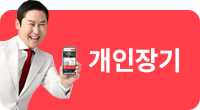
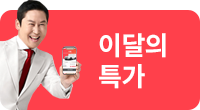
mo 신차장 메인 배너 변경 및 롤링 추가

Changed region(s): [[0.42, 0.3, 0.9, 0.8182], [0.3, 0.4364, 0.39, 0.6818]]

diff --git a/wwwroot/mo/html-mo/html/common/main_longTerm.html b/wwwroot/mo/html-mo/html/common/main_longTerm.html
@@ -90,21 +90,21 @@
 						<li>
 							<a href="#">
 								<div class="img">
-									<img src="../../../resources-mo/images/@temp-longTerm-link01.png" alt="더미이미지"/>
+									<img src="../../../resources-mo/images/@temp-longTerm-link01.png" alt="이달의 특가"/>
 								</div>
 							</a>
 						</li>
 						<li>
 							<a href="#">
 								<div class="img">
-									<img src="../../../resources-mo/images/@temp-longTerm-link02.png" alt="더미이미지"/>
+									<img src="../../../resources-mo/images/@temp-longTerm-link02.png" alt="개인장기"/>
 								</div>
 							</a>
 						</li>
 						<li>
 							<a href="#">
 								<div class="img">
-									<img src="../../../resources-mo/images/@temp-longTerm-link03.png" alt="더미이미지"/>
+									<img src="../../../resources-mo/images/@temp-longTerm-link03.png" alt="법인장기"/>
 								</div>
 							</a>
 						</li>
@@ -252,10 +252,58 @@
 					<!--//다이렉트 견적-->
 				</div>
 
-				<div class="detail-layer-bn">
+				<!-- <div class="detail-layer-bn">
 					<a href="#">
 						<img src="../../../resources-mo/images/@temp-main-longTerm-bn01.png" alt="bn">
 					</a>
+				</div> -->
+
+				<div class="detail-main-list detail-main-list8">
+					<div class="list-cont">
+						<div class="life-event-view">
+							<div class="swiper-container life-event-lists04">
+								<div class="swiper-wrapper">
+			
+									<div class="swiper-slide">
+										<a href="#">
+											<div class="img">
+												<img src="../../../resources-mo/images/@temp-main-longTerm-bn01.png" alt="차량이미지"/>
+											</div>
+										</a>
+									</div>
+									<div class="swiper-slide">
+										<a href="#">
+											<div class="img">
+												<img src="../../../resources-mo/images/@temp-main-longTerm-bn01.png" alt="차량이미지"/>
+											</div>
+										</a>
+									</div>
+									<div class="swiper-slide">
+										<a href="#">
+											<div class="img">
+												<img src="../../../resources-mo/images/@temp-main-longTerm-bn01.png" alt="차량이미지"/>
+											</div>
+										</a>
+									</div>
+									<div class="swiper-slide">
+										<a href="#">
+											<div class="img">
+												<img src="../../../resources-mo/images/@temp-main-longTerm-bn01.png" alt="차량이미지"/>
+											</div>
+										</a>
+									</div>
+									<div class="swiper-slide">
+										<a href="#">
+											<div class="img">
+												<img src="../../../resources-mo/images/@temp-main-longTerm-bn01.png" alt="차량이미지"/>
+											</div>
+										</a>
+									</div>
+			
+								</div>
+							</div>
+						</div>
+					</div>
 				</div>
 	
 				<div class="detail-main-list detail-main-list4">

diff --git a/wwwroot/mo/resources-mo/scripts/common.js b/wwwroot/mo/resources-mo/scripts/common.js
@@ -1073,6 +1073,20 @@ if($('.footerMenu-wrap .tab-normal').length){
         });
     }
 
+    //신차장 메인 배너 롤링
+    if($('.longTerm-wrap .life-event-lists04').length) {
+        MUI.slide.init('.longTerm-wrap .life-event-lists04','swiper', {
+            loop: true,
+            //autoHeight: true,
+            // pagination: {
+            //     el: '.life-event-pagination03',
+            // },
+            autoplay: {
+                delay: 3000,
+            },
+        });
+    }
+
     //신차장 메인 롤링 슬라이드 팝업
     if($('.layer-galleryThumbs-longTerm').length) {
         MUI.layer.openClick('.layer-galleryThumbs-open', LAYER_DIM, LAYER_PARENT, false, function(show){

diff --git a/wwwroot/mo/resources-mo/styles/contents.css b/wwwroot/mo/resources-mo/styles/contents.css
@@ -31168,6 +31168,15 @@
 	border-bottom: 0 none;
 }
 
+.longTerm-wrap .section-detail .detail-main-list.detail-main-list8 {
+	margin: 0;
+	padding: 0;
+}
+
+.longTerm-wrap .section-detail .detail-main-list.detail-main-list8 .life-event-view {
+	padding-bottom: 0;
+}
+
 .longTerm-wrap .section-detail .detail-layer-submit {
 	padding: 2.6rem 1.7rem;
 	background-color: #fff;

diff --git a/wwwroot/mo/resources-mo/scss/contents/_longTerm.scss b/wwwroot/mo/resources-mo/scss/contents/_longTerm.scss
@@ -1473,6 +1473,13 @@
                     }
                 }
             }
+            &.detail-main-list8{
+                margin:0;
+                padding:0;
+                .life-event-view{
+                    padding-bottom:0;
+                }
+            }
         }
         .detail-layer-submit{
             padding: 2.6rem 1.7rem;
